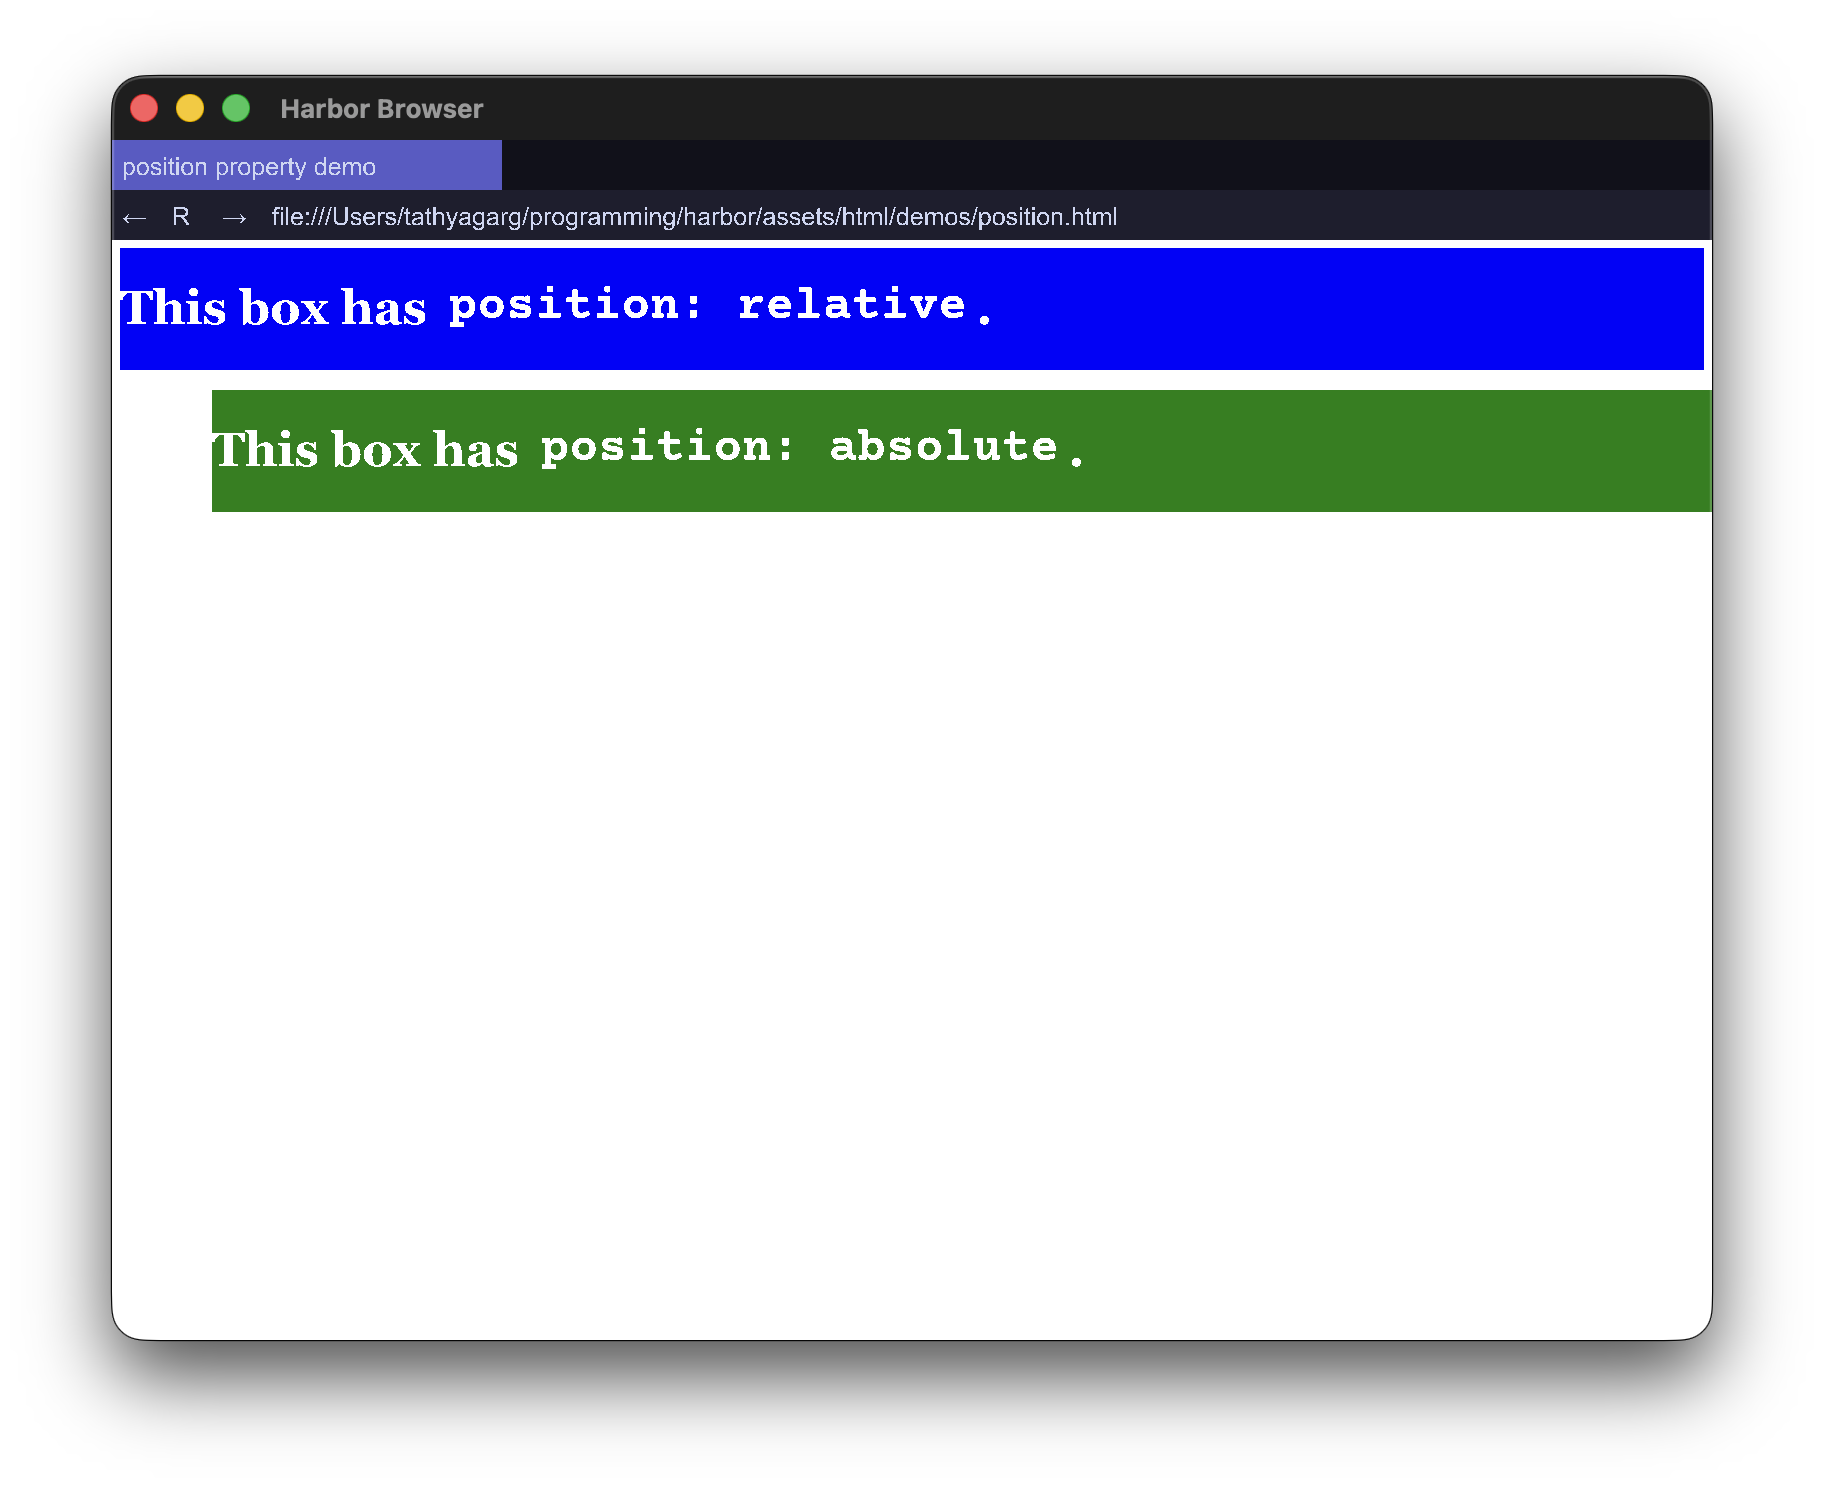
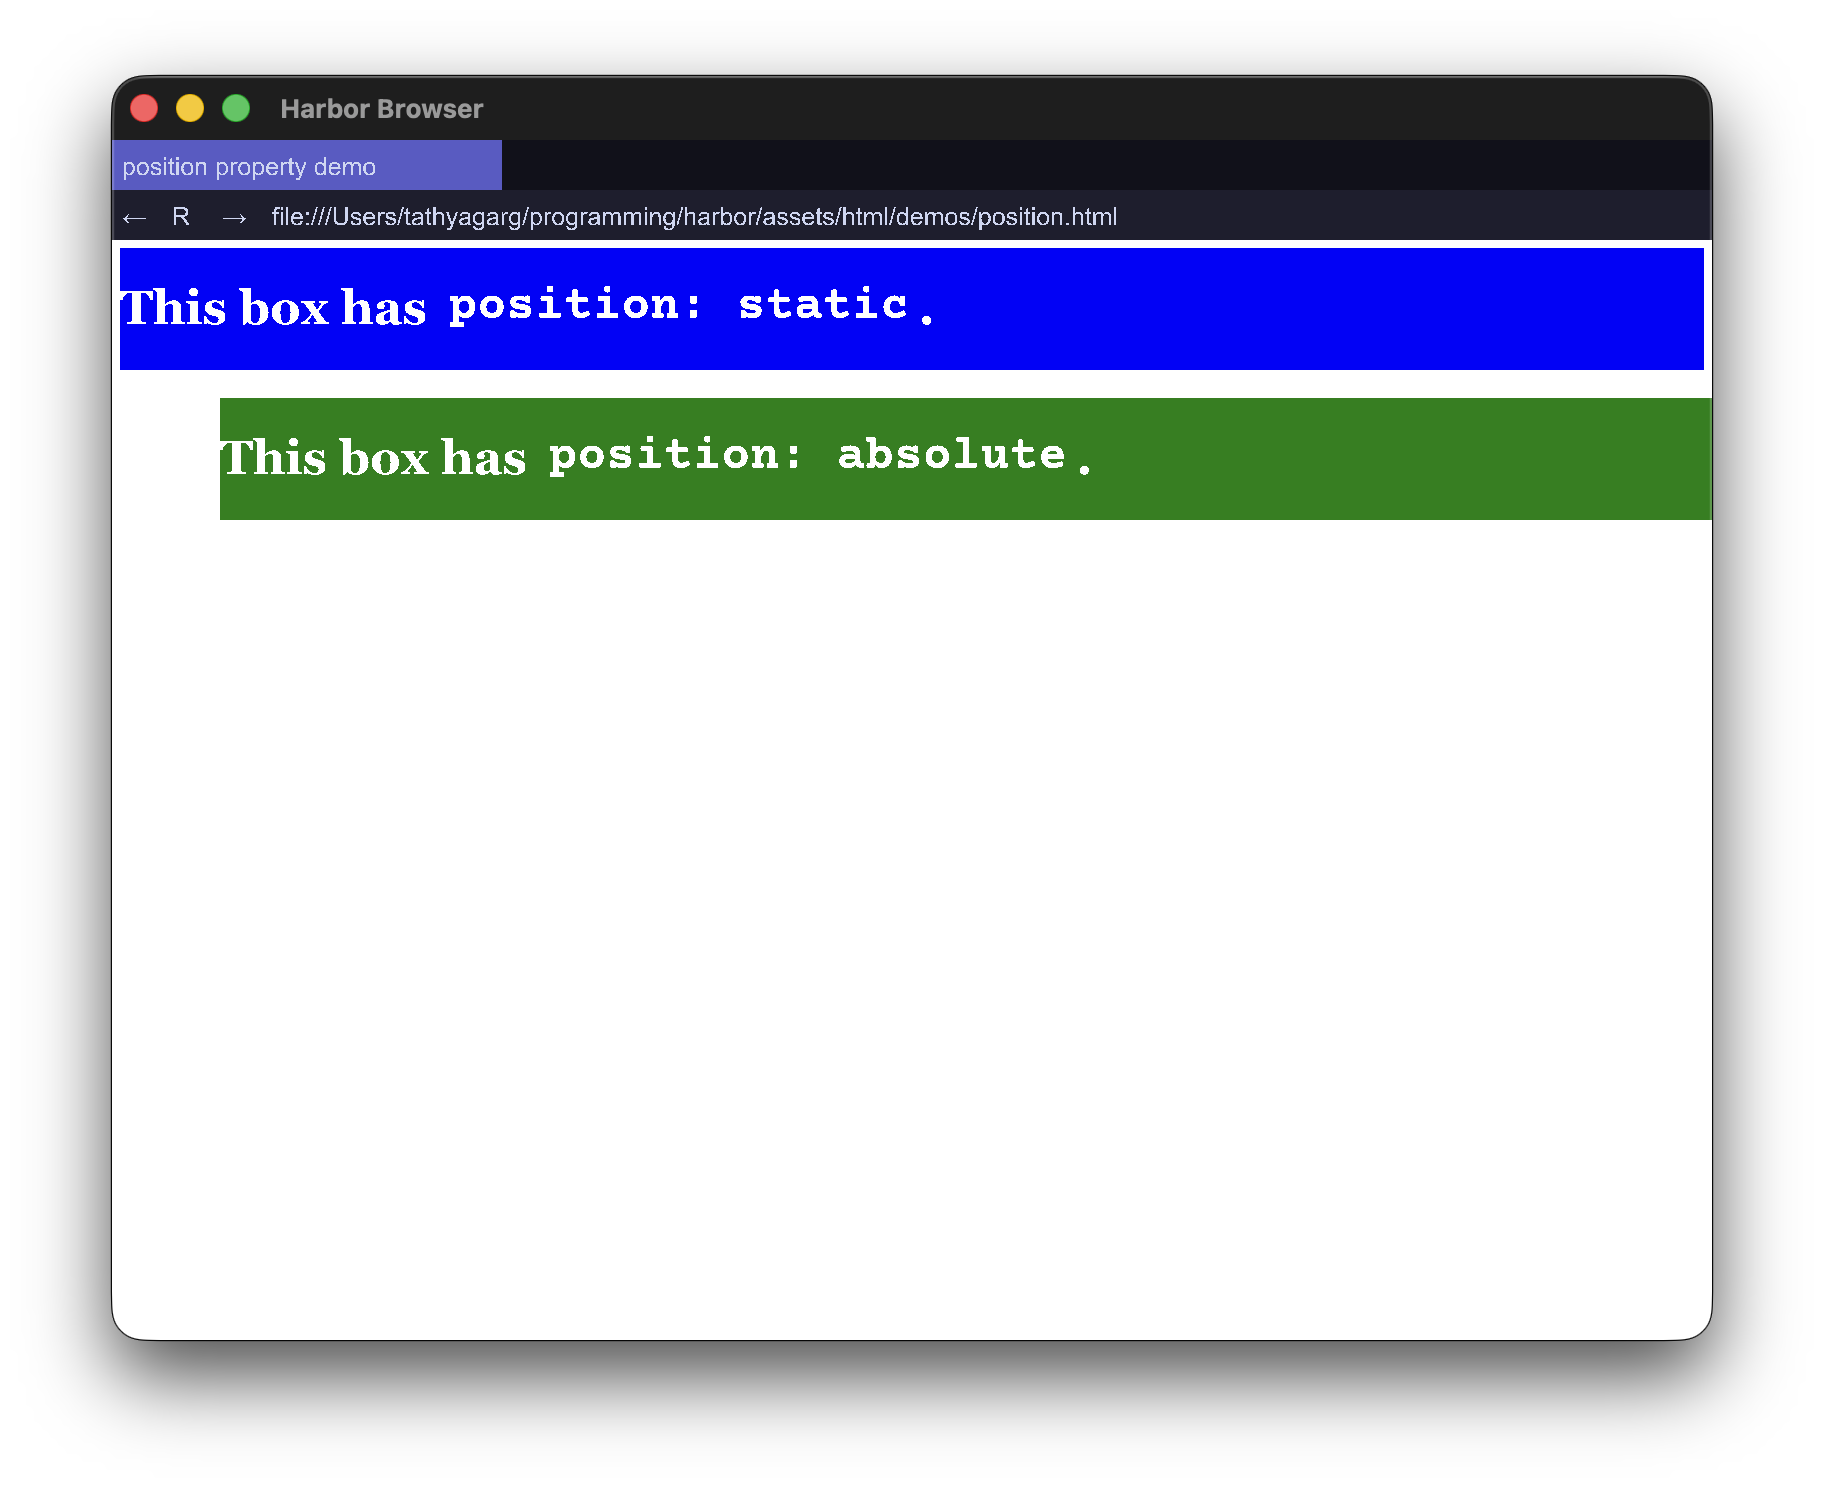
docs: Added docs for cursor property

Changed region(s): [[0.0938, 0.2473, 0.9375, 0.371], [0.4062, 0.1855, 0.5312, 0.2164]]

diff --git a/assets/html/demos/cursor.html b/assets/html/demos/cursor.html
@@ -1,0 +1,21 @@
+<!DOCTYPE html>
+<html lang="en">
+<head>
+  <meta charset="UTF-8">
+  <meta name="viewport" content="width=device-width, initial-scale=1.0">
+  <title>cursor property demo</title>
+
+  <style>
+    .pointer:hover {
+      cursor: pointer;
+    }
+    .crosshair:hover {
+      cursor: crosshair;
+    }
+  </style>
+</head>
+<body>
+    <h1 class="pointer">This has <code>cursor: pointer</code></h1>
+    <h1 class="crosshair">This has <code>cursor: crosshair</code></h1>
+</body>
+</html>

diff --git a/harbor/engine/src/css/selectors.rs b/harbor/engine/src/css/selectors.rs
@@ -206,6 +206,13 @@ impl MatchesElement for CompoundSelector {
                             return false;
                         }
                     }
+                    SubclassSelector::PseudoClassSelector(PseudoClassSelector::Raw(name))
+                        if name == "hover" =>
+                    {
+                        if !element._element_state.is_hovered {
+                            return false;
+                        }
+                    }
                     _ => {
                         todo!(
                             "Implement matching for other SubclassSelectors: {:?}",

diff --git a/README.md b/README.md
@@ -169,11 +169,20 @@ The CSS parser processes the CSS stylesheets associated with the webpage. It par
   <em><a href="assets/html/demos/font.html">Demo showcasing <code>font-size</code>, <code>font-family</code>, <code>font-weight</code>, and <code>font-style</code> properties</a></em>
 </div>
 
+- `cursor`
+
+<div align="center">
+  <video src="https://raw.githubusercontent.com/tathyagarg/harbor/main/.github/assets/screenshots/demos/cursor.gif" alt="Cursor Demo" width="80%">
+  <br/>
+  <em><a href="assets/html/demos/cursor.html">Demo showcasing <code>cursor</code> property</a></em>
+</div>
+
+
 ### TTF Parser
 The TTF (TrueType Font) parser is responsible for parsing font files to extract glyph information. This allows the browser to render text using the correct fonts specified in the CSS. This enables me to render text manually from glyphs, which is a fun challenge.
 
 ### JavaScript Engine
-The JavaScript engine executes JavaScript code embedded in web pages. Currently it can evaluate simple expressions and some statements.
+The JavaScript engine executes JavaScript code embedded in web pages. Currently it can evaluate simple expressions and some statements. It doesn't know how underpowered it is and thus crashes every time it encounters a feature it doesn't support (which is most of them). So, for safety, JavaScript is disabled by default and can be enabled by passing `--enable-js` flag when running the browser.
 
 ### Renderer
 The renderer takes the structured data from the HTML and CSS parsers and renders it onto the screen. It uses the `wgpu` library for GPU-accelerated rendering and `winit` for window management. The renderer is responsible for drawing all visual elements of the webpage. The renderer uses ear clipping to render glyphs from contours into filled triangles[^2]
